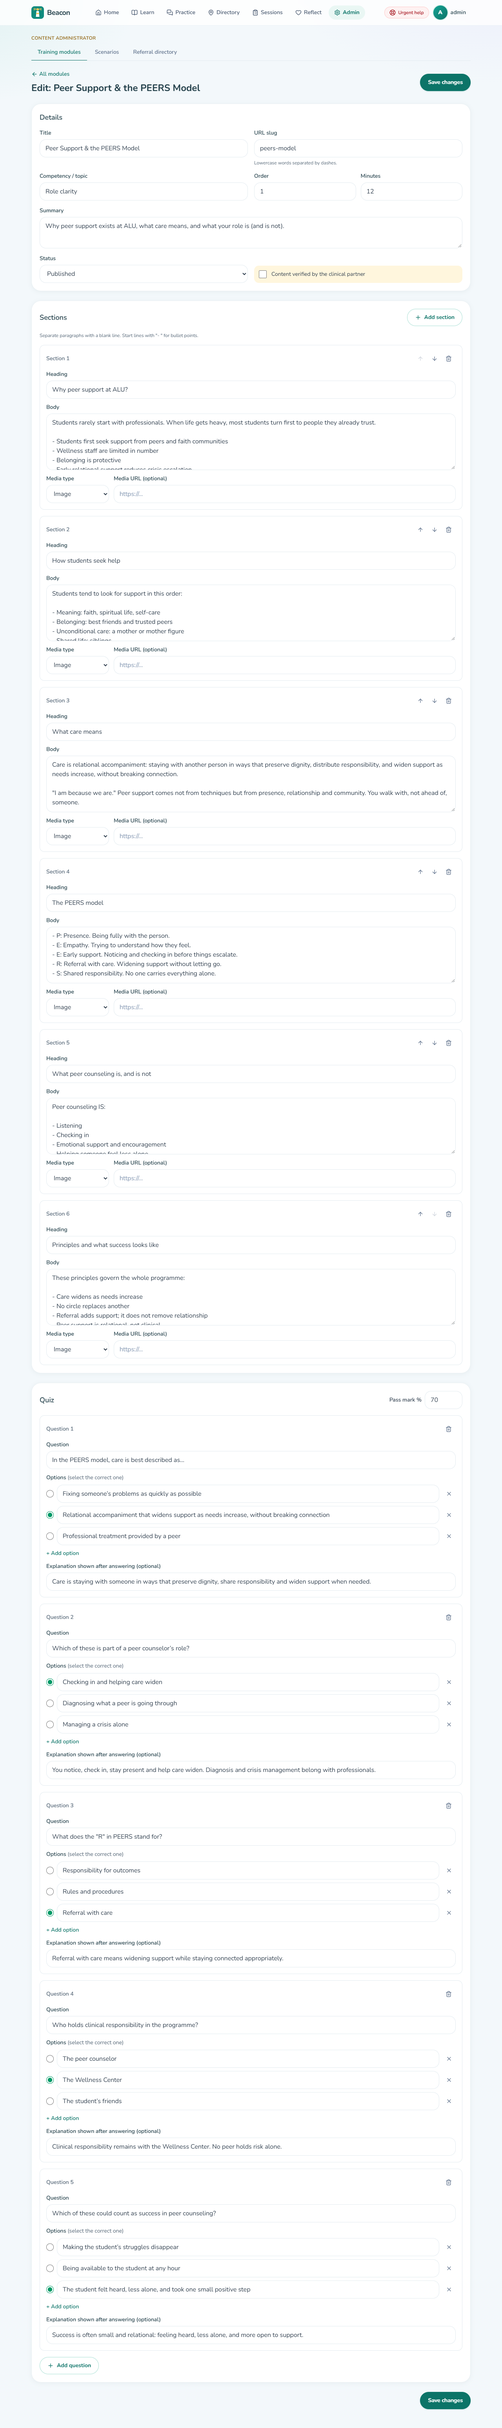
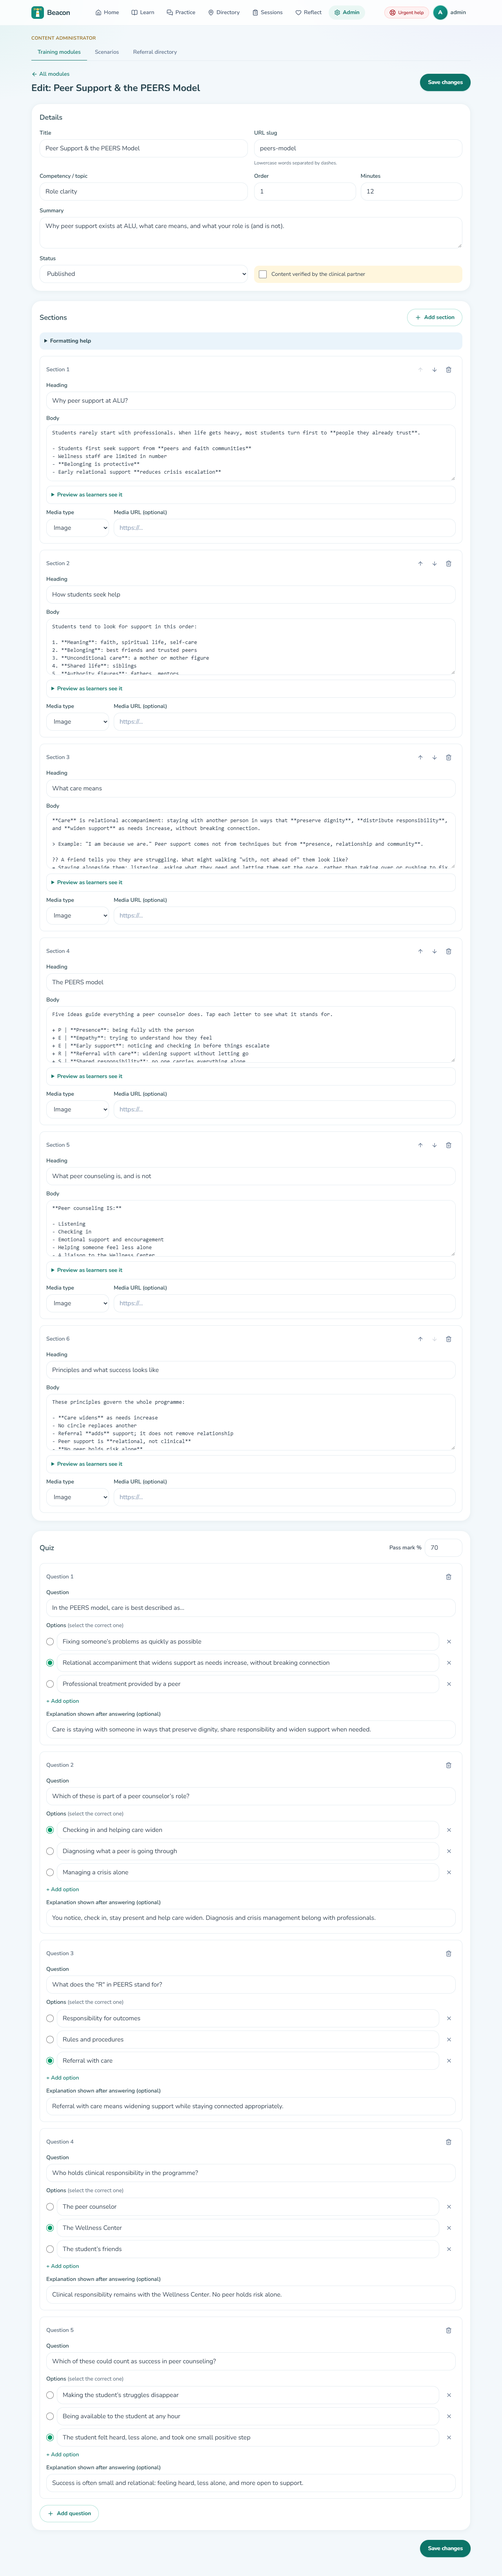
docs: document lesson blocks and refresh screenshots
Adds the lesson markup guide to the style guide, the new module columns
to the schema doc, and fixes the migrations path in the deployment guide.

Changed region(s): [[0.0625, 0.0, 0.8438, 0.9669], [0.5, 0.0624, 0.9375, 0.1248], [0.8438, 0.0312, 0.9375, 0.0624]]

diff --git a/README.md b/README.md
@@ -18,20 +18,21 @@ Progressive Web App that gives them:
 
 | Feature | Requirement |
 |---|---|
-| 🔐 Pseudonymous sign-up and secure session-based login | FR1 |
-| 📚 Six training modules following the Solid Minds *PEERS Circles of Care* curriculum (the PEERS model, mental health literacy, psychological first aid, boundaries & confidentiality, referral, self-care), with a **Listen** button that reads any section aloud | FR2 |
-| 📈 Section-by-section progress tracking; modules can be taken in any order | FR3 |
-| 💬 **Practice conversations** (the gamification centrepiece): branching role-plays with a simulated peer. Every response shows how it lands and Bea explains why; unhelpful choices can be retried, so nobody can fail | FR4 |
-| 🧭 **Skill check** (placement + pre/post knowledge measure for RQ3) that suggests which modules to focus on and then reviews every answer (correct answer plus explanation), and **test-out**: pass a module's quiz without reading it to earn the badge | FR4 |
-| 🏅 Low-pressure gamification: quizzes with unlimited retries, a learning journey path, badge stickers, points and levels, gentle celebrations, and Bea the mascot (no leaderboards or streaks) | FR4 |
-| 📍 A searchable, filterable referral directory of campus and local services, with tap-to-call | FR5 |
-| 📋 Support-session log with optional referral to a directory service (notes encrypted) | FR6 |
-| ❤ Self-care check-ins with a mood rating and private reflection (encrypted) | FR7 |
-| 💬 Anonymous System Usability Scale (SUS) feedback | FR8 |
-| 🛠 Content Administrator workspace: create, edit, publish and archive modules, quizzes and providers; publish or hide scenarios | FR9 |
-| 📊 Programme Coordinator cohort dashboard: aggregates only (incl. skill-check before/after and practice completions), small groups suppressed | FR10 |
+| Pseudonymous sign-up and secure session-based login | FR1 |
+| Six training modules following the Solid Minds *PEERS Circles of Care* curriculum (the PEERS model, mental health literacy, psychological first aid, boundaries & confidentiality, referral, self-care), with a **Listen** button that reads any section aloud | FR2 |
+| Visual, interactive lessons: bold key terms, callouts (Bea's tips, *Remember*, *Watch out*), step lists, tap-to-flip cards, *Check yourself* questions and *Think, then reveal* prompts. Practice only: nothing is graded or blocks moving on | FR2 |
+| Section-by-section progress tracking; modules can be taken in any order | FR3 |
+| **Practice conversations** (the gamification centrepiece): branching role-plays with a simulated peer. Every response shows how it lands and Bea explains why; unhelpful choices can be retried, so nobody can fail | FR4 |
+| **Skill check** (placement + pre/post knowledge measure for RQ3) that suggests which modules to focus on and then reviews every answer (correct answer plus explanation), and **test-out**: pass a module's quiz without reading it to earn the badge | FR4 |
+| Low-pressure gamification: quizzes with unlimited retries, a learning journey path, badge stickers, points and levels, gentle celebrations, and Bea the mascot (no leaderboards or streaks) | FR4 |
+| A searchable, filterable referral directory of campus and local services, with tap-to-call | FR5 |
+| Support-session log with optional referral to a directory service (notes encrypted) | FR6 |
+| Self-care check-ins with a mood rating and private reflection (encrypted) | FR7 |
+| Anonymous System Usability Scale (SUS) feedback | FR8 |
+| Content Administrator workspace: create, edit, publish and archive modules, quizzes and providers; publish or hide scenarios | FR9 |
+| Programme Coordinator cohort dashboard: aggregates only (incl. skill-check before/after and practice completions), small groups suppressed | FR10 |
 
-> ⚠ **Pilot content notice.** The modules and scenarios are **adapted from the
+> **Pilot content notice.** The modules and scenarios are **adapted from the
 > training materials Solid Minds Counselling Clinic used to train ALU peer
 > counsellors**, and are pending Solid Minds' final review. Unverified modules
 > show a *"Pending expert review"* banner naming the source, and unverified
@@ -46,6 +47,10 @@ Progressive Web App that gives them:
 | Mobile: home | Mobile: learning journey | Mobile: module | Desktop: badge collection |
 |---|---|---|---|
 | ![Home](docs/screenshots/mobile-03-dashboard.png) | ![Journey](docs/screenshots/mobile-04-modules.png) | ![Module](docs/screenshots/mobile-05-module.png) | ![Progress](docs/screenshots/desktop-12-progress.png) |
+
+| Mobile: interactive lesson | Desktop: interactive lesson | Desktop: admin editor with preview | |
+|---|---|---|---|
+| ![Lesson blocks](docs/screenshots/mobile-22-lesson-blocks.png) | ![Lesson blocks](docs/screenshots/desktop-22-lesson-blocks.png) | ![Editor](docs/screenshots/desktop-15-admin-editor.png) | |
 
 | Mobile: practice conversations | Mobile: scenario player | Mobile: skill check results | Desktop: scenario ending |
 |---|---|---|---|
@@ -227,7 +232,7 @@ You can also register a new peer-supporter account from the landing page.
 | server | `npm run typecheck` | Type-check without emitting files |
 | server | `npm run build` / `npm start` | Compile to `dist/` / run the compiled API |
 | server | `npm run start:prod` | Migrate, seed and start from `dist/` (used in production and CI) |
-| server | `npm test` | Unit tests, plus integration tests when `TEST_DATABASE_URL` is set (⚠ that database is wiped) |
+| server | `npm test` | Unit tests, plus integration tests when `TEST_DATABASE_URL` is set ( that database is wiped) |
 | server | `npm run test:coverage` | Tests with a coverage report (fails below 60% lines, per NFR6) |
 | client | `npm run typecheck` | Generate Next.js route types, then type-check |
 | client | `npm run lint` | ESLint (Next.js core-web-vitals + TypeScript rules) |

diff --git a/docs/design/style-guide.md b/docs/design/style-guide.md
@@ -92,7 +92,48 @@ image files, so it stays light on 3G).
 | **Level and points** | A sunshine level circle and a progress bar on Home and Progress. Points come only from learning. |
 | **Badge stickers** | Competency icon on its tint with a sunshine rim once collected. Locked badges read "Not yet, whenever you're ready". |
 
-## 6. Core components
+## 6. Learning blocks (lesson markup)
+
+Lessons are written as plain text with a small markup, so the admin editor stays
+a simple text box and nothing is ever rendered as HTML. The parser is
+`client/lib/content-markup.ts`, the components are `client/components/learning-blocks.tsx`,
+and `server/src/content/markup-check.ts` rejects badly formed blocks in tests and at deploy.
+The admin editor shows a **Formatting help** table and a live **Preview** for every section.
+
+Leave a blank line between blocks.
+
+| Type this | Learners see | Use it for |
+|---|---|---|
+| `**key term**` | Bold term with a soft sunshine highlighter | The one or two ideas per paragraph worth remembering |
+| `- item` | Sunshine-dot bullet list | Short, unordered points |
+| `1. step` | Numbered stepping stones joined by a line | Ideas that come in order (help-seeking order, the continuum, risk steps) |
+| `> Tip: …` | **Bea's tip**, with Bea beside it (sunshine) | Practical advice |
+| `> Remember: …` | Star callout (mint) | The section's key takeaway, usually last |
+| `> Example: …` | Quote callout (sky) | Phrases to say, survey findings, real voices |
+| `> Watch out: …` | Warning callout (coral) | Common mistakes and limits ("PFA is **not**…") |
+| `> Try this: …` | Sparkle callout (lavender) | A small action to take |
+| `+ Front \| Back` (one per line) | Tap-to-flip cards with a "2 of 5 flipped" counter | Acronyms (PEERS, Look/Listen/Link), definitions, contrasts |
+| `? Question` / `[ ] option` / `[x] option` / `= why` | **Check yourself**: wrong picks say "Not quite. Have another go"; the right one shows the explanation | One quick recall question per module, at most one per section |
+| `?? Prompt` / `= suggested answer` | **Think, then reveal**: lavender card with "Show a suggested answer" | Reflection on a realistic situation |
+
+**Why.** These follow well-established multimedia-learning principles (Mayer):
+*signalling* (highlighting key terms and takeaways), *segmenting* (short chunks,
+step lists and cards instead of walls of text) and *retrieval practice* (recalling
+an answer before seeing it). They respond to pilot feedback that the modules felt
+plain, while keeping the low-pressure rules above: checks are never graded or
+saved, retries are unlimited, and **Mark as read** never waits for them.
+
+**Accessibility.** Cards and reveals are buttons with `aria-expanded`; check
+results are announced through an `aria-live` region; the card flip is removed under
+reduced motion; **Listen** reads callouts, both sides of every card and each
+question with its options, but never the answers.
+
+**Changing module text.** Edit `server/src/content/modules.ts` and bump the
+module's `version`. On the next deploy the seed copies the new text into the
+database in place (same sections, so reading progress is kept), unless an admin
+has edited that module in the Admin screens. Keep the number of sections the same.
+
+## 7. Core components
 
 | Component | Notes |
 |---|---|
@@ -103,7 +144,7 @@ image files, so it stays light on 3G).
 | `EmptyState` | Accepts `art={<Bea />}` and kind copy ("No sessions yet, and that's okay!"). |
 | Bottom tab bar | Five items; the active tab gets a mint pill behind its icon. |
 
-## 7. Accessibility checklist (NFR3)
+## 8. Accessibility checklist (NFR3)
 
 - Keyboard reachable; sunshine focus ring; "Skip to content" link.
 - Landmarks, one `h1` per page, labelled controls, `fieldset/legend` for radio groups.
@@ -111,7 +152,7 @@ image files, so it stays light on 3G).
 - `prefers-reduced-motion` disables bobbing, pop-ins and confetti (verified by a Playwright test).
 - Charts print values as text and offer a Table view.
 
-## 8. Voice & tone
+## 9. Voice & tone
 
 Warm, encouraging, never clinical or judgemental:
 - "Welcome back! No rush."

diff --git a/docs/database-schema.md b/docs/database-schema.md
@@ -54,6 +54,8 @@ erDiagram
         int estimated_minutes
         text status "draft | published | archived"
         bool content_verified
+        int content_version "authored text last applied"
+        bool admin_edited
     }
     MODULE_SECTIONS {
         int section_id PK
@@ -207,6 +209,7 @@ Scale responses are anonymous by construction (FR8).
 | Added `consent_at` | Records informed consent at registration |
 | Added `scenarios`, `scenario_completions`, `skill_check_attempts` (migration 002) | Scenario role-plays and the skill check (supervisor feedback); the skill check also gives the pre/post knowledge measure for RQ3 |
 | Added `training_modules.source_note` | Records where content comes from (the Solid Minds training) until it is verified |
+| Added `training_modules.content_version` and `admin_edited` (migration 003) | Lets a deploy refresh the authored lesson text (e.g. the interactive reformatting) in place, keeping section ids and reading progress, while never overwriting a module an admin has edited |
 
 ## Integrity & performance
 

diff --git a/docs/deployment.md b/docs/deployment.md
@@ -65,7 +65,7 @@ flowchart LR
 
 1. Every push/PR runs **CI**: API unit and integration tests against a real Postgres (with coverage), frontend lint and production build, then Playwright end-to-end tests of the full stack.
 2. Merging to `main` triggers **automatic deploys** on Vercel and Render. (Optionally enable "deploy only if CI passes" in Render, and Vercel's GitHub checks.)
-3. Database changes ship as new numbered files in `server/src/db/migrations/` and are applied automatically on start; migrations are forward-only.
+3. Database changes ship as new numbered files in `server/migrations/` and are applied automatically on start; migrations are forward-only.
 
 ## Operations
 
